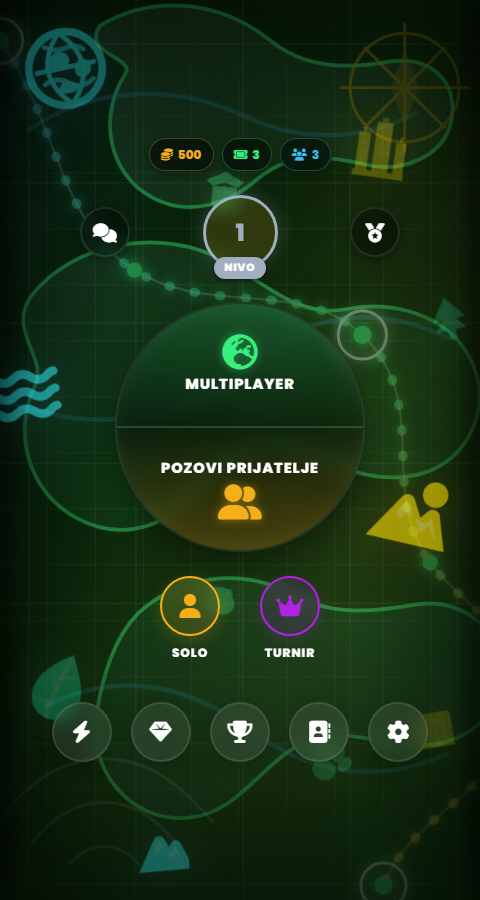
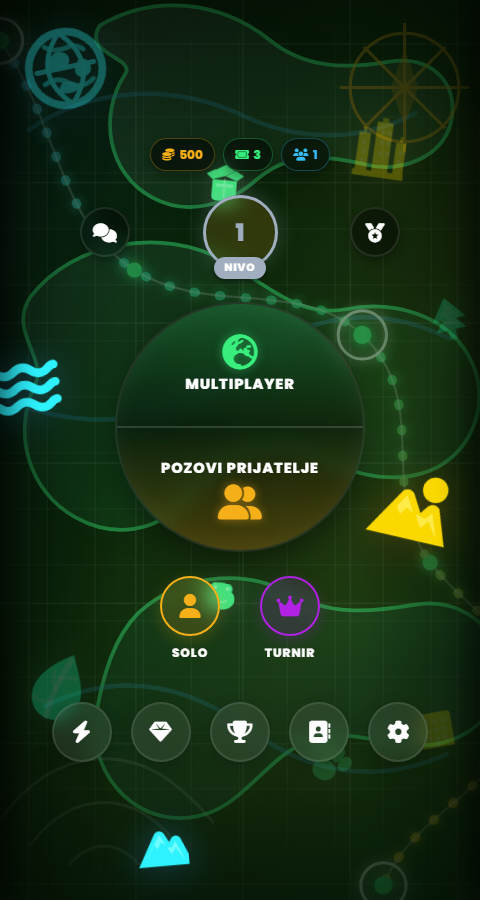
Update 04 21.05.2026.

diff --git a/www/tokeni.js b/www/tokeni.js
@@ -3,9 +3,21 @@
 const TokeniManager = {
     tokeni: 3,
     maxTokena: 3,
+    reklamaUToku: false,
     
     init: function() {
         this.proveriDnevniReset();
+    },
+
+    normalizujTokeni: function(vrednost) {
+        const broj = parseInt(vrednost, 10);
+        if (Number.isNaN(broj)) return this.maxTokena;
+        return Math.max(0, Math.min(this.maxTokena, broj));
+    },
+
+    postaviStanje: function(vrednost) {
+        this.tokeni = this.normalizujTokeni(vrednost);
+        this.snimiStanje();
     },
     
     proveriDnevniReset: function() {
@@ -21,13 +33,14 @@ const TokeniManager = {
             // Isti dan - samo pročitaj stanje iz memorije
             const sacuvaniTokeni = localStorage.getItem('zemljopis_tokeni_stanje');
             if (sacuvaniTokeni !== null) {
-                this.tokeni = parseInt(sacuvaniTokeni, 10);
+                this.tokeni = this.normalizujTokeni(sacuvaniTokeni);
             }
         }
         this.azurirajPrikaz();
     },
     
     snimiStanje: function() {
+        this.tokeni = this.normalizujTokeni(this.tokeni);
         localStorage.setItem('zemljopis_tokeni_stanje', this.tokeni);
         this.azurirajPrikaz();
     },
@@ -44,7 +57,13 @@ const TokeniManager = {
         // Ažuriranje dugmeta za gledanje reklame
         const btnReklama = document.getElementById('btn-gledaj-reklamu');
         if (btnReklama) {
-            if (this.tokeni >= this.maxTokena) {
+            if (this.reklamaUToku) {
+                btnReklama.disabled = true;
+                btnReklama.innerHTML = '<i class="fa-solid fa-hourglass-half"></i> Reklama se prikazuje...';
+                btnReklama.style.background = 'rgba(255,255,255,0.1)';
+                btnReklama.style.color = '#a0aec0';
+                btnReklama.style.boxShadow = 'none';
+            } else if (this.tokeni >= this.maxTokena) {
                 btnReklama.disabled = true;
                 btnReklama.innerHTML = '<i class="fa-solid fa-check"></i> Maksimalan broj tokena';
                 btnReklama.style.background = 'rgba(255,255,255,0.1)';
@@ -65,10 +84,21 @@ const TokeniManager = {
     },
     
     potrosiToken: function() {
-        if (this.tokeni > 0) {
-            this.tokeni--;
-            this.snimiStanje();
+        if (!this.imaTokena()) {
+            this.azurirajPrikaz();
+            return false;
         }
+
+        this.tokeni--;
+        this.snimiStanje();
+        return true;
+    },
+
+    dodajToken: function(kolicina = 1) {
+        const prethodno = this.tokeni;
+        this.tokeni = this.normalizujTokeni(this.tokeni + kolicina);
+        this.snimiStanje();
+        return this.tokeni > prethodno;
     },
     
     otvoriEkran: function() {
@@ -77,7 +107,10 @@ const TokeniManager = {
     },
     
     pogledajReklamu: function() {
-        if (this.tokeni >= this.maxTokena) return;
+        if (this.reklamaUToku || this.tokeni >= this.maxTokena) {
+            this.azurirajPrikaz();
+            return;
+        }
         
         /* =========================================================
            OVDJE INTEGRISATI PRAVI ADMOB KOD (npr. showRewardVideo)
@@ -85,6 +118,8 @@ const TokeniManager = {
         */
 
         // Za sada pokrećemo MOCK (Simulaciju) učitavanja reklame:
+        this.reklamaUToku = true;
+        this.azurirajPrikaz();
         UIManager.prikaziObavestenje("Učitavanje reklame...", "Molim te sačekaj, reklama se prikazuje...", null, "...");
         
         const modalBtn = document.getElementById('modal-btn');
@@ -92,8 +127,8 @@ const TokeniManager = {
         
         setTimeout(() => {
             // Po završetku reklame:
-            this.tokeni++;
-            this.snimiStanje();
+            this.reklamaUToku = false;
+            this.dodajToken(1);
             
             if(modalBtn) modalBtn.style.display = 'block'; // Vraćamo dugme
             UIManager.prikaziObavestenje(

diff --git a/www/game.js b/www/game.js
@@ -98,10 +98,12 @@ const Game = {
                 const tokeniVelikoEl = document.getElementById('tokeni-stanje-veliko');
                 
                 if (dukatiEl) dukatiEl.innerText = podaci.dukati;
-                if (tokeniEl) tokeniEl.innerText = tokeniVelikoEl ? tokeniVelikoEl.innerText = podaci.tokeni : podaci.tokeni + "/3";
-                if (tokeniVelikoEl) tokeniVelikoEl.innerText = podaci.tokeni;
-
-                if (typeof TokeniManager !== 'undefined') TokeniManager.trenutnoTokena = podaci.tokeni;
+                if (typeof TokeniManager !== 'undefined') {
+                    TokeniManager.azurirajPrikaz();
+                } else {
+                    if (tokeniEl) tokeniEl.innerText = `${podaci.tokeni}/3`;
+                    if (tokeniVelikoEl) tokeniVelikoEl.innerText = podaci.tokeni;
+                }
                 if (typeof RiznicaManager !== 'undefined') RiznicaManager.stanjeDukata = podaci.dukati;
             });
 
@@ -497,13 +499,13 @@ const Game = {
 
     pokreniIgru: function(mod, zadatoSlovoSaServera = null) {
         if (typeof TokeniManager !== 'undefined') {
-            if (mod === 'solo') {
-                if (!TokeniManager.imaTokena()) {
-                    UIManager.prikaziObavestenje("Nemaš više tokena!", "Potrošio si sve tokene za danas. Poseti sekciju za tokene da nabaviš nove preko reklame.", () => { TokeniManager.otvoriEkran(); }, "Nabavi tokene");
-                    return; 
-                }
+            if (!TokeniManager.imaTokena()) {
+                if (mod === 'multi' && this.socket) this.socket.emit('napustiSobu');
+                UIManager.prikaziObavestenje("Nemaš više tokena!", "Potrošio si sve tokene za danas. Poseti sekciju za tokene da nabaviš nove preko reklame.", () => { TokeniManager.otvoriEkran(); }, "Nabavi tokene");
+                return;
             }
-            TokeniManager.potrosiToken();
+
+            if (!TokeniManager.potrosiToken()) return;
         }
 
         this.trenutniMod = mod;